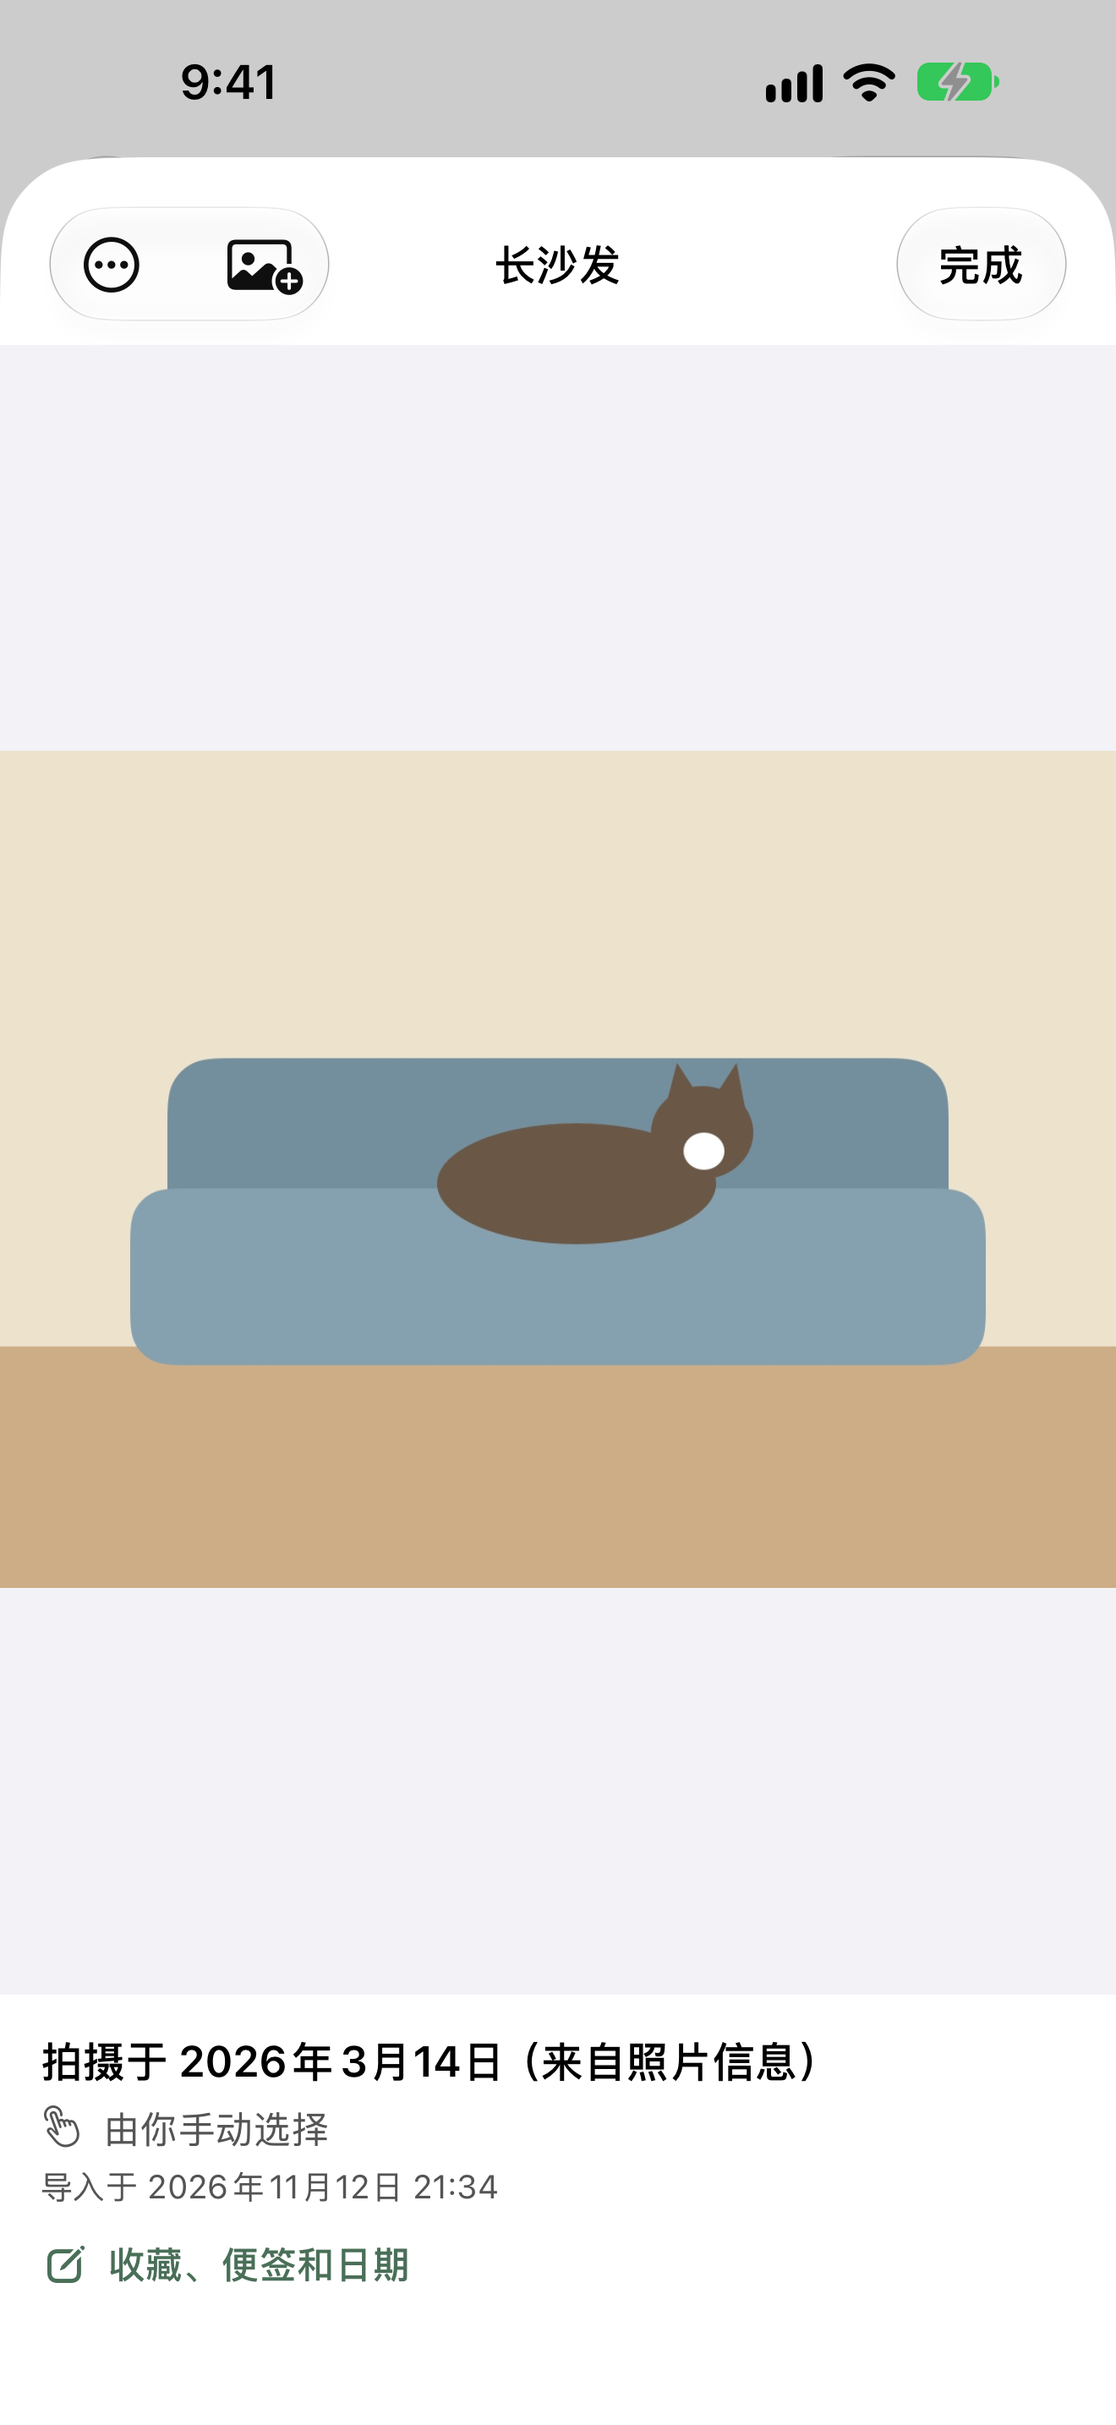
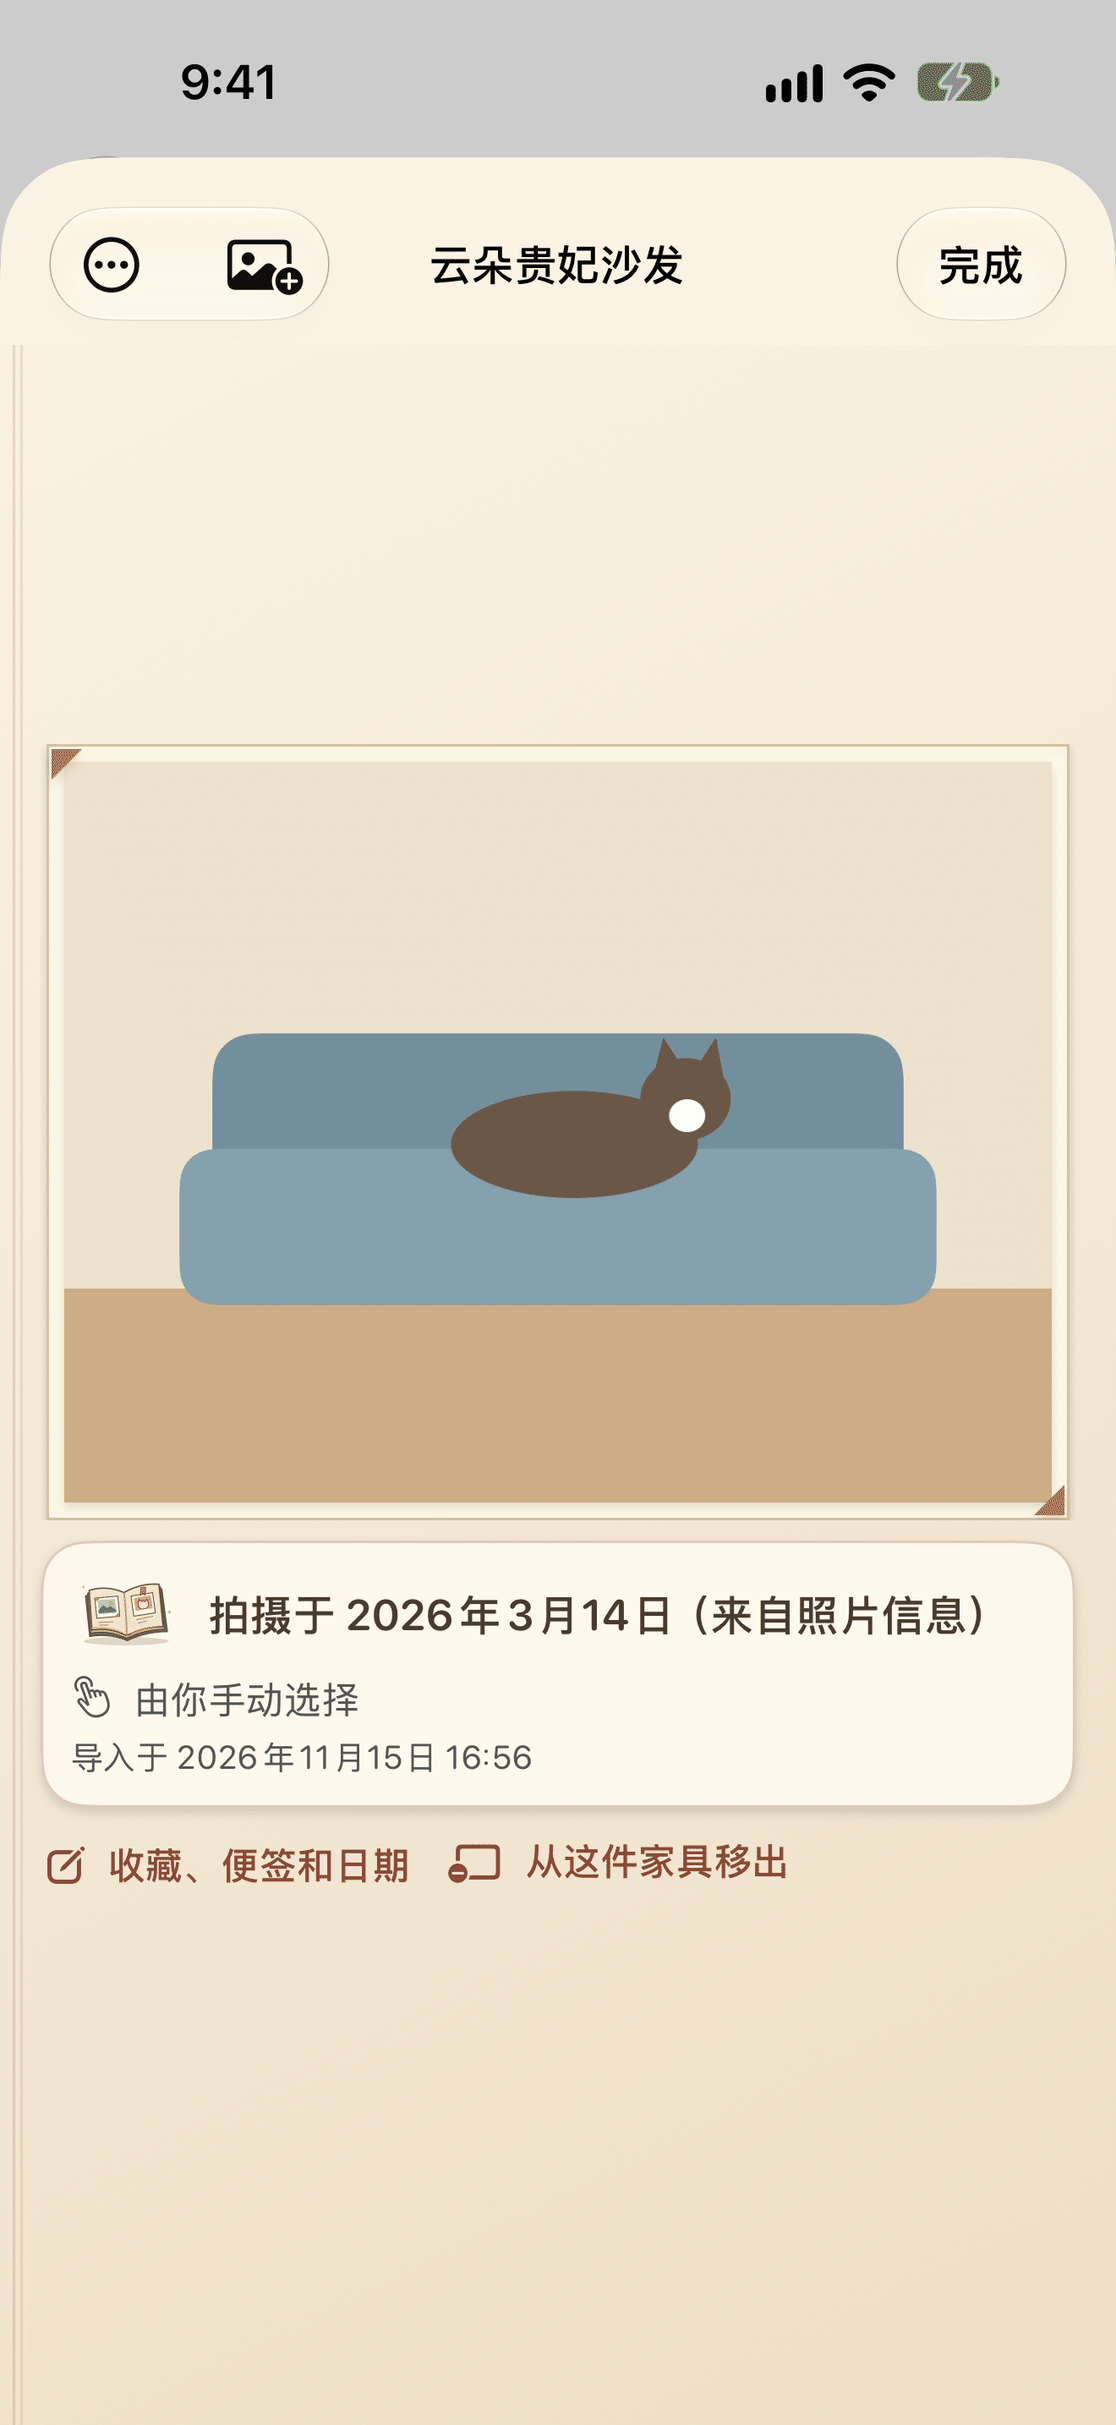
docs: credit Omucat, add a Testers group and refresh the screenshots
The owner asked for Omucat to be credited for ideas and for an empty
Testers group to fill in later, in both languages; CONTRIBUTORS.md now has
an English section too.

The previous screenshots predate the art upgrade. Both sets are replaced
with the 2026-11-15 store screenshots from the development main line,
palette-compressed at the original 1320 x 2868 size. The captions, alt text,
source-release note and attribution now give the new date, say the images
are newer than 0.1.0 (3), list the new hashes, and credit only what the new
images show.

Claude-Session: https://claude.ai/code/session_01UjKD9a9EvRDUih47Vm7vT3

diff --git a/docs/media/ATTRIBUTION.md b/docs/media/ATTRIBUTION.md
@@ -1,43 +1,55 @@
 # iOS 产品预览图：来源与权利说明
 
-这里的中英两组、共六张图是完整 Meowverse 原生 iOS App 的历史开发版截图，供展示项目用途。这些图不作为源码候选包的运行截图；源码公开范围与正式 App 的素材范围分别说明。
+简体中文 | [English](#english)
+
+这里的中英两组、共六张图是完整 Meowverse 原生 iOS App 的开发版截图，供展示项目用途。这些图不作为源码候选包的运行截图；源码公开范围与正式 App 的素材范围分别说明。
 
 ## 拍摄时间与版本
 
-本组中文、英文商店底稿由项目的 `StoreScreenshotsUITests` 和 `ios/store-shots.sh` 在 iPhone 模拟器中生成，两种语言共用同一拍摄流程。对应结果包记录的开始时间是 **2026-11-13 02:33 UTC（美国东部时间 2026-11-12 晚间）**，PNG 导出时间约为 02:41 UTC。
+本组中文、英文商店底稿由项目的 `StoreScreenshotsUITests` 和 `ios/store-shots.sh` 在 iPhone 18 Pro Max 模拟器（iOS 27.2）中生成，两种语言共用同一拍摄流程，取自 2026-11-15 的开发主线。对应结果包记录的时间是 **2026-11-15 21:55–22:04 UTC（美国东部时间当天下午）**。
 
-这些图早于 **0.1.0 (3)** 的 2026-11-14 归档，不标为构建 3 的截图。PNG 本身不提供可独立验证的 App 构建号。界面与完整 App 的后续版本可能不同。
+这些图晚于 **0.1.0 (3)** 的 2026-11-14 归档，图中部分界面可能还没有进入 TestFlight，不标为任何已上传构建的截图。PNG 本身不提供可独立验证的 App 构建号。
 
-六张文件保持原始 PNG 字节，尺寸均为 **1320 × 2868**，未用图像生成工具重绘界面，也未拼接额外功能。英文截图是真实的英文 UI，不是把中文截图的文字覆盖为英文。
+六张文件尺寸均为 **1320 × 2868**，与模拟器截图相同。为减小仓库体积，原始 PNG 经 256 色调色板量化（Floyd–Steinberg 抖动）后重新保存，没有裁切、缩放、重绘界面或拼接额外功能。英文截图是真实的英文 UI，不是把中文截图的文字覆盖为英文。
 
 ## 照片与隐私
 
 - `ios-room.png`、`ios-play.png` 及其 `-en.png` 对应图只展示 App 渲染的虚拟场景、猫咪和道具。
-- `ios-memories.png`、`ios-memories-en.png` 内的来源图片是程序画出的猫咪与沙发示意图，来自 App 的合成测试导入流程。图上日期属于该合成测试图片，不代表 Bella 真实照片的拍摄日期。
-- 这些图没有包含私人原照片、真实相册内容、个人姓名或设备标识。
+- `ios-memories.png`、`ios-memories-en.png` 内的来源图片是程序画出的猫咪与沙发示意图，来自 App 的合成测试导入流程。图上的拍摄日期和导入时间属于该合成测试图片，不代表任何真实猫咪照片的日期。
+- 图中猫咪的名字是 App 的默认名 Kitty。这些图没有包含私人原照片、真实相册内容、个人姓名或设备标识。
 
 ## 权利范围与第三方署名
 
 这六份 PNG 产品预览图作为展示材料保留权利，不随程序代码许可授予美术复用权。截图的公开展示不表示正式模型、贴图、动画或设计源文件一并开源。此说明不改变适用代码许可证授予的权利；第三方内容已有的许可和权利不受此声明影响。
 
-截图拍摄时的 Bella 形体与毛色由 Meowverse 制作；当时所用骨架、蒙皮权重布局和基础片段的来源署名保留如下：
-
-- **“3d modelling my cat: Fripouille” — guillaume bolis（2020）**。原作品适用 [CC BY 4.0](https://creativecommons.org/licenses/by/4.0/)。[原作页面](https://sketchfab.com/3d-models/3d-modelling-my-cat-fripouille-0ab14bf98e754f8d90fe1bf1c84ca66c) · [作者](https://sketchfab.com/guillaume.bolis)。Meowverse 进行了对齐、Bella 外观制作及房间姿态、互动和原生资源转换。该署名依据截图拍摄时期的项目记录；后续 App 内置猫咪已继续迭代。
-- **Kenney — Furniture Kit（2018 author release）**，适用 [CC0 1.0](https://creativecommons.org/publicdomain/zero/1.0/)。[素材主页](https://kenney.nl/assets/furniture-kit)。截图中的旧家具来自当时的运行目录，已转换为原生绘制数据。
-- **3D Assets — 宠物家具模型**，发布方标注 CC0 1.0，并标注使用 AI 工具制作；Meowverse 进行了尺度、结构和互动适配。[猫爬架](https://3dassets.dev/assets/companion-animals-and-pet-home-cat-tree-e126b0aa) · [软垫猫窝](https://3dassets.dev/assets/companion-animals-and-pet-home-cushion-bed-27a23ea4) · [花瓣饮水机](https://3dassets.dev/assets/companion-animals-and-pet-home-water-fountain-8b38ac17)。
-- 图中的羽毛逗猫棒和合成来源图片由 Meowverse 的程序在本机绘制。
+- 图中的猫是 App 内置的猫咪，网格与毛色由 Meowverse 制作，骨架、蒙皮权重和动作片段来自 Meowverse 的猫咪骨架流程。App 的署名文件仍保留早期模板的来源署名，这里照录：**“3d modelling my cat: Fripouille” — guillaume bolis（2020）**，原作品适用 [CC BY 4.0](https://creativecommons.org/licenses/by/4.0/)。[原作页面](https://sketchfab.com/3d-models/3d-modelling-my-cat-fripouille-0ab14bf98e754f8d90fe1bf1c84ca66c) · [作者](https://sketchfab.com/guillaume.bolis)。
+- 图中可见的家具（层层猫爬架、云朵贵妃沙发、莲花饮水器、甜甜圈猫窝）是 Meowverse 的原创程序模型；收纳箱、羽毛逗猫棒、地板与墙面，以及合成来源图片，由 Meowverse 的程序在本机生成或绘制。这组截图中没有出现 App 目录里来自 Kenney 或 3D Assets 的 CC0 家具。
 
 本目录只包含展示用截图，没有包含上述正式几何体、纹理或动画源文件。
 
 ## 文件校验
 
-来源路径均为原开发项目内的相对路径，用于说明拍摄出处。
+来源路径均为原开发项目内的相对路径，用于说明拍摄出处。下表是本目录中压缩后文件的 SHA-256。
 
 | 文件 | 来源 | SHA-256 |
 | --- | --- | --- |
[12 lines of base64/hex data omitted]
+
+<a name="english"></a>
+
+## English
+
+These six images, one Chinese and one English set, are screenshots of a development build of the full native Meowverse iOS app, shown to present the project. They are not screens produced by running the source package.
+
+**When and how.** Both languages were captured by the project's `StoreScreenshotsUITests` and `ios/store-shots.sh` on an iPhone 18 Pro Max simulator (iOS 27.2) from the development main line of November 15, 2026. The result bundle records **21:55–22:04 UTC on 2026-11-15**. They are newer than the 0.1.0 (3) archive of November 14, 2026, so some of what they show may not be in TestFlight yet; they are not labelled as screenshots of any uploaded build.
+
+**Processing.** All six files keep the simulator size of **1320 × 2868**. To keep the repository small, the original PNGs were quantised to a 256-colour palette with Floyd–Steinberg dithering and saved again. Nothing was cropped, scaled, redrawn or composited. The English screenshots show the real English UI, not Chinese screenshots with replaced text.
+
+**Photos and privacy.** The room and play images show only the app's rendered scene, cat and props. The source picture in the memories images is a programmatically drawn cat-and-sofa sample from the app's synthetic test import; its capture date and import time belong to that sample. The cat's name is the app default, Kitty. The images contain no private photos, real photo-library content, personal names or device identifiers.
+
+**Rights and attribution.** The screenshots are presentation material; their rights are reserved and are not granted under the code license, and showing them does not open-source the production models, textures, animations or design files. The cat is the app's built-in cat, with mesh and coat made by Meowverse and the skeleton, skin weights and clips from Meowverse's cat rig. The app's attribution file still keeps the credit for the earlier template, reproduced here: **“3d modelling my cat: Fripouille” by guillaume bolis (2020)**, licensed under [CC BY 4.0](https://creativecommons.org/licenses/by/4.0/) ([model](https://sketchfab.com/3d-models/3d-modelling-my-cat-fripouille-0ab14bf98e754f8d90fe1bf1c84ca66c) · [author](https://sketchfab.com/guillaume.bolis)). The visible furniture (Tiered cat tower, Cloud chaise sofa, Lotus fountain and Donut bed) is original procedural work by Meowverse; the storage chest, feather wand, floor, walls and the synthetic source picture are generated or drawn locally by Meowverse code. No Kenney or 3D Assets CC0 furniture from the app catalog appears in these screenshots. The SHA-256 of each file is in the table above.

diff --git a/README.en.md b/README.en.md
@@ -74,13 +74,13 @@ Participation is optional. Preparation is manual, with no guaranteed acceptance,
     <th align="center">Spend a moment with your cat</th>
   </tr>
   <tr>
-    <td align="center"><img src="docs/media/ios-room-en.png" width="250" alt="English room screen from a recent Meowverse development build"></td>
-    <td align="center"><img src="docs/media/ios-memories-en.png" width="250" alt="English photo memories screen from a recent Meowverse development build"></td>
-    <td align="center"><img src="docs/media/ios-play-en.png" width="250" alt="English cat interaction screen from a recent Meowverse development build"></td>
+    <td align="center"><img src="docs/media/ios-room-en.png" width="250" alt="Meowverse development build, room screen: the cat loafing on a sofa beside a cat tower, a bed and a fountain"></td>
+    <td align="center"><img src="docs/media/ios-memories-en.png" width="250" alt="Meowverse development build, furniture memories screen: a programmatically drawn sample photo of the sofa with its capture date"></td>
+    <td align="center"><img src="docs/media/ios-play-en.png" width="250" alt="Meowverse development build, play screen: the cat chasing the feather wand"></td>
   </tr>
 </table>
 
-*Real interfaces from recent development builds running in the simulator; the photos are programmatically drawn examples. These screenshots were captured on November 12–13, 2026, before 0.1.0 (3), and are not screenshots of that build. The current TestFlight app is the reference for the available experience. [Image sources and attribution](docs/media/ATTRIBUTION.md).*
+*Real interfaces from a development build running in the simulator; the photos are programmatically drawn examples. These screenshots were captured from the development main line on November 15, 2026, after 0.1.0 (3), so some of what they show may not be in TestFlight yet. The current TestFlight app is the reference for the available experience. [Image sources and attribution](docs/media/ATTRIBUTION.md).*
 
 <details>
 <summary>What you can try in the current TestFlight app</summary>
@@ -174,7 +174,13 @@ The library contains rules for cloud-backup state and retention. Their presence 
 
 Project maintainer: [**Fengyee**](https://github.com/Fengyee).
 
+Ideas: **Omucat**.
+
 AI collaboration tools used during development: **Claude (Anthropic)** and **Codex (OpenAI)**.
+
+### Testers
+
+Coming soon.
 
 The maintainer is responsible for product decisions and releases. This section acknowledges the development tools; GitHub's automatic Contributors list continues to reflect actual commit records. See [CONTRIBUTORS.md](CONTRIBUTORS.md) for more detail.
 

diff --git a/README.md b/README.md
@@ -68,13 +68,13 @@
     <th align="center">陪猫玩一会儿</th>
   </tr>
   <tr>
-    <td align="center"><img src="docs/media/ios-room.png" width="250" alt="Meowverse 近期开发版房间界面"></td>
-    <td align="center"><img src="docs/media/ios-memories.png" width="250" alt="Meowverse 近期开发版照片回忆界面"></td>
-    <td align="center"><img src="docs/media/ios-play.png" width="250" alt="Meowverse 近期开发版猫咪互动界面"></td>
+    <td align="center"><img src="docs/media/ios-room.png" width="250" alt="Meowverse 开发版房间界面：猫咪窝在沙发上，旁边有猫爬架、猫窝和饮水器"></td>
+    <td align="center"><img src="docs/media/ios-memories.png" width="250" alt="Meowverse 开发版家具回忆界面：沙发里的一张程序绘制示意照片和拍摄日期"></td>
+    <td align="center"><img src="docs/media/ios-play.png" width="250" alt="Meowverse 开发版陪猫玩界面：猫咪追着羽毛逗猫棒"></td>
   </tr>
 </table>
 
-*近期开发版真实界面（模拟器）；照片为程序绘制示意；当前体验以 TestFlight 为准。截图采自 2026-11-12／13 的开发版，早于 0.1.0（3），不作为该构建的截图。[图片来源与署名](docs/media/ATTRIBUTION.md)。*
+*开发版真实界面（模拟器）；照片为程序绘制示意。截图采自 2026-11-15 的开发主线，晚于 0.1.0（3），部分画面可能还没有进入 TestFlight；当前体验以 TestFlight 为准。[图片来源与署名](docs/media/ATTRIBUTION.md)。*
 
 <details>
 <summary>当前 TestFlight：可以体验什么</summary>
@@ -168,7 +168,13 @@ support/                        遮名处理后的支持页图片
 
 项目维护：[**Fengyee**](https://github.com/Fengyee)。
 
+创意：**Omucat**。
+
 开发过程中使用的 AI 协作工具：**Claude（Anthropic）**、**Codex（OpenAI）**。
+
+### 测试鸣谢
+
+名单整理中。
 
 产品决策与发布由维护者负责。这里明确披露开发协作工具；GitHub 自动 Contributors 列表仍按实际提交记录生成。详细说明见 [CONTRIBUTORS.md](CONTRIBUTORS.md)。
 

diff --git a/CONTRIBUTORS.md b/CONTRIBUTORS.md
@@ -1,8 +1,18 @@
 # Contributors · 协作致谢
 
+简体中文 | [English](#english)
+
 ## 项目维护
 
 [Fengyee](https://github.com/Fengyee) 维护 Meowverse，负责产品决策和发布。
+
+## 创意
+
+**Omucat**
+
+## 测试鸣谢
+
+名单整理中。
 
 ## AI 协作工具
 
@@ -11,3 +21,27 @@
 这里披露开发协作工具。GitHub 自动贡献统计依据默认分支上的实际提交及关联账号计算；协作致谢与自动统计分别呈现。
 
 项目代码、必要程序数据、展示图片及第三方内容的权利范围继续依 [LICENSE-SCOPE.md](LICENSE-SCOPE.md) 和各自的署名说明执行。
+
+<a name="english"></a>
+
+## English
+
+### Maintainer
+
+[Fengyee](https://github.com/Fengyee) maintains Meowverse and is responsible for product decisions and releases.
+
+### Ideas
+
+**Omucat**
+
+### Testers
+
+Coming soon.
+
+### AI collaboration tools
+
+**Claude (Anthropic)** and **Codex (OpenAI)** were used to help with code and documentation during development. The project shows this acknowledgement directly in the README and on the web page.
+
+This section discloses the development tools. GitHub's automatic contribution statistics are calculated from actual commits on the default branch and their linked accounts; these acknowledgements and the automatic statistics are presented separately.
+
+The rights that apply to the code, required program data, showcase images and third-party content continue to follow [LICENSE-SCOPE.md](LICENSE-SCOPE.md) and the respective attribution notices.

diff --git a/SOURCE-RELEASE.md b/SOURCE-RELEASE.md
@@ -17,7 +17,7 @@
 
 ## 图片与许可
 
-README 三张截图是单独供项目展示的历史开发版真实界面，早于构建 3；照片内容为合成示意。来源、时间和第三方署名见 [图片说明](docs/media/ATTRIBUTION.md)。它们不作为本 Swift 库的运行画面，也不提供正式美术源资产。
+README 的中英文截图（各三张）是单独供项目展示的开发版真实界面，采自 2026-11-15，晚于构建 3；照片内容为合成示意。来源、时间和第三方署名见 [图片说明](docs/media/ATTRIBUTION.md)。它们不作为本 Swift 库的运行画面，也不提供正式美术源资产。
 
 代码、构建清单、必要程序数据和合成测试素材适用 [LICENSE](LICENSE)。成品宣传截图、README 等说明材料、群二维码和收款图不随代码授权为可复用素材，详见 [LICENSE-SCOPE.md](LICENSE-SCOPE.md)。正式许可使用未经修改的官方英文正文，解释不能扩大或缩小该正文的权利范围。
 
